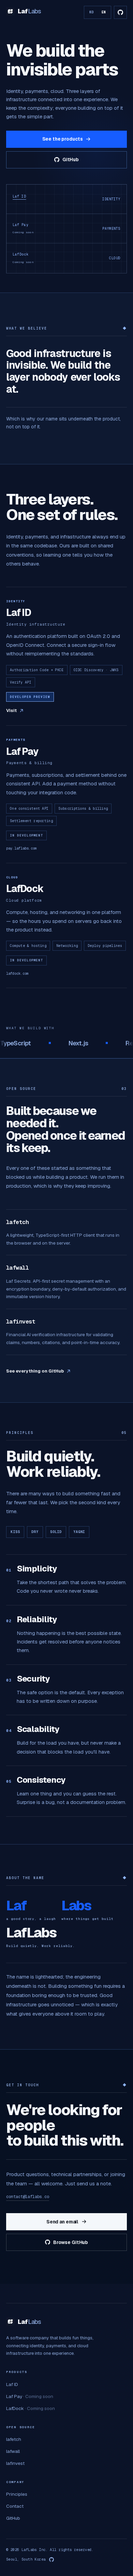
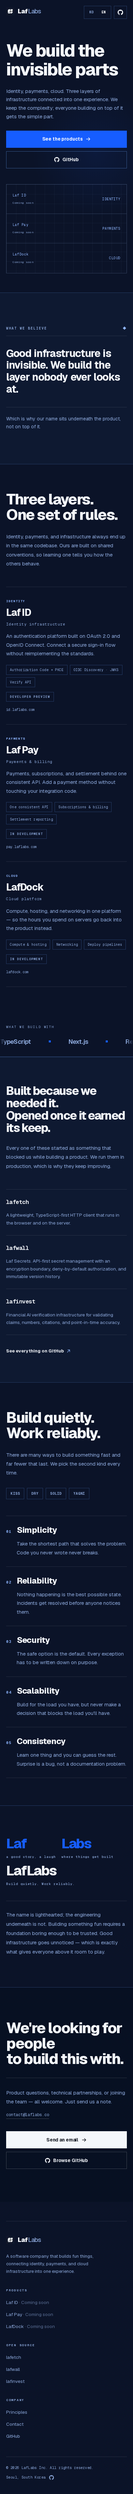
fix: complete homepage finish review

diff --git a/lib/content.ts b/lib/content.ts
@@ -24,7 +24,7 @@ export const stack = [
 ] as const
 
 export const products = [
-  { id: "laf-id", name: "Laf ID", href: "https://id.laflabs.com", domain: "id.laflabs.com" },
+  { id: "laf-id", name: "Laf ID", href: null, domain: "id.laflabs.com" },
   { id: "laf-pay", name: "Laf Pay", href: null, domain: "pay.laflabs.com" },
   { id: "lafdock", name: "LafDock", href: null, domain: "lafdock.com" },
 ] as const
@@ -68,20 +68,18 @@ type Copy = {
     soon: string
   } & Record<ProductId, ProductCopy>
   open: {
-    eyebrow: string
     title: readonly [string, string]
     lede: string
     all: string
     descriptions: Record<RepoName, string>
   }
   principles: {
-    eyebrow: string
     title: readonly [string, string]
     lede: string
     items: readonly { key: string; body: string }[]
   }
-  name: { eyebrow: string; laf: string; labs: string; note: string }
-  cta: { eyebrow: string; title: readonly [string, string]; lede: string; mail: string; github: string }
+  name: { laf: string; labs: string; note: string }
+  cta: { title: readonly [string, string]; lede: string; mail: string; github: string }
   footer: {
     blurb: string
     products: string
@@ -136,7 +134,6 @@ const ko: Copy = {
     },
   },
   open: {
-    eyebrow: "오픈소스",
     title: ["필요해서 만들었고,", "쓸 만해져서 열었습니다."],
     lede: "전부 제품을 만들다 막혀서 직접 만든 것들입니다. 우리가 실제로 운영에 쓰고 있고, 그래서 계속 고쳐집니다.",
     all: "GitHub에서 전체 보기",
@@ -147,7 +144,6 @@ const ko: Copy = {
     },
   },
   principles: {
-    eyebrow: "원칙",
     title: ["조용히 만들고,", "확실하게 돌아가게."],
     lede: "빠르게 만드는 방법은 많지만 오래 가는 방법은 적습니다. 우리는 매번 후자를 고릅니다.",
     items: [
@@ -159,13 +155,11 @@ const ko: Copy = {
     ],
   },
   name: {
-    eyebrow: "이름에 대하여",
     laf: "재미있는 이야기, 웃음",
     labs: "만들고 실험하는 곳",
     note: "이름은 가볍게 지었지만 만드는 방식은 그렇지 않습니다. 재미있는 걸 만들려면 그 아래가 지루할 만큼 튼튼해야 한다고 믿습니다. 잘 만든 인프라는 눈에 띄지 않고, 그래서 사람들은 그 위에서 마음껏 놀 수 있습니다.",
   },
   cta: {
-    eyebrow: "함께하기",
     title: ["같이 만들 사람을", "찾고 있습니다."],
     lede: "제품 도입, 기술 협업, 합류 문의 모두 환영합니다. 편하게 메일 주세요.",
     mail: "메일 보내기",
@@ -225,7 +219,6 @@ const en: Copy = {
     },
   },
   open: {
-    eyebrow: "Open source",
     title: ["Built because we needed it.", "Opened once it earned its keep."],
     lede: "Every one of these started as something that blocked us while building a product. We run them in production, which is why they keep improving.",
     all: "See everything on GitHub",
@@ -236,7 +229,6 @@ const en: Copy = {
     },
   },
   principles: {
-    eyebrow: "Principles",
     title: ["Build quietly.", "Work reliably."],
     lede: "There are many ways to build something fast and far fewer that last. We pick the second kind every time.",
     items: [
@@ -248,13 +240,11 @@ const en: Copy = {
     ],
   },
   name: {
-    eyebrow: "About the name",
     laf: "a good story, a laugh",
     labs: "where things get built",
     note: "The name is lighthearted; the engineering underneath is not. Building something fun requires a foundation boring enough to be trusted. Good infrastructure goes unnoticed — which is exactly what gives everyone above it room to play.",
   },
   cta: {
-    eyebrow: "Get in touch",
     title: ["We're looking for people", "to build this with."],
     lede: "Product questions, technical partnerships, or joining the team — all welcome. Just send us a note.",
     mail: "Send an email",

diff --git a/app/globals.css b/app/globals.css
@@ -454,8 +454,7 @@ a.routing-item:focus-visible .routing-product-name { color: var(--foreground); }
   gap: clamp(28px, 4vw, 72px);
 }
 .section-head > .lede { padding-bottom: 6px; }
-.section-head-title { margin-top: clamp(24px, 2.6vw, 38px); }
-#products .section-head-title { margin-top: 0; }
+.section-head-title { margin-top: 0; }
 
 /* ------------------------------------------------------------------ *
  * Products — direct editorial rows, not a card grid.
@@ -642,7 +641,7 @@ a.routing-item:focus-visible .routing-product-name { color: var(--foreground); }
 .name-inner { width: var(--shell); margin-inline: auto; position: relative; }
 
 .name-equation {
-  margin-top: clamp(38px, 4.6vw, 68px);
+  margin: 0;
   display: flex;
   flex-wrap: wrap;
   align-items: flex-start;
@@ -692,8 +691,7 @@ a.routing-item:focus-visible .routing-product-name { color: var(--foreground); }
   background: var(--surface-inverse);
 }
 .cta-inner { width: var(--shell); margin-inline: auto; position: relative; }
-.cta .label { border-bottom-color: color-mix(in srgb, var(--text-inverse) 16%, transparent); color: var(--text-inverse-muted); }
-.cta h2 { margin: clamp(28px, 3.4vw, 46px) 0 0; color: var(--text-inverse); }
+.cta h2 { margin: 0; color: var(--text-inverse); }
 .cta-body {
   margin-top: clamp(32px, 3.6vw, 48px);
   padding-top: 30px;

diff --git a/components/sections/name-story.tsx b/components/sections/name-story.tsx
@@ -3,7 +3,7 @@
 import { motion, useReducedMotion } from "motion/react"
 
 import { useLocale } from "@/components/i18n/locale-provider"
-import { EASE, Reveal } from "@/components/ui/reveal"
+import { EASE } from "@/components/ui/reveal"
 import { copy, motto } from "@/lib/content"
 
 /** The one block on the page allowed to have a sense of humour about itself. */
@@ -26,14 +26,7 @@ export function NameStory() {
   return (
     <section className="name-section">
       <div className="name-inner">
-        <Reveal>
-          <div className="label">
-            <span>{t.eyebrow}</span>
-            <b>◆</b>
-          </div>
-        </Reveal>
-
-        <motion.div
+        <motion.h2
           className="name-equation"
           initial={reduced ? "visible" : "hidden"}
           whileInView="visible"
@@ -64,7 +57,7 @@ export function NameStory() {
             <span>LafLabs</span>
             <small>{motto}</small>
           </motion.span>
-        </motion.div>
+        </motion.h2>
 
         <motion.p
           className="name-note"

diff --git a/components/sections/cta.tsx b/components/sections/cta.tsx
@@ -15,13 +15,6 @@ export function Cta() {
     <section className="cta" id="contact">
       <div className="cta-inner">
         <Reveal>
-          <div className="label">
-            <span>{t.eyebrow}</span>
-            <b>◆</b>
-          </div>
-        </Reveal>
-
-        <Reveal delay={0.08}>
           <h2 className="display">
             {t.title[0]}
             <br />
@@ -29,7 +22,7 @@ export function Cta() {
           </h2>
         </Reveal>
 
-        <Reveal delay={0.16}>
+        <Reveal delay={0.08}>
           <div className="cta-body">
             <div>
               <p className="lede">{t.lede}</p>

diff --git a/components/sections/open-source.tsx b/components/sections/open-source.tsx
@@ -14,14 +14,7 @@ export function OpenSource() {
   return (
     <section className="section section-alt" id="open-source">
       <div className="shell">
-        <Reveal>
-          <div className="label">
-            <span>{t.eyebrow}</span>
-            <span>0{repositories.length}</span>
-          </div>
-        </Reveal>
-
-        <Reveal delay={0.06} className="section-head">
+        <Reveal className="section-head">
           <h2 className="display-sm section-head-title">
             {t.title[0]}
             <br />

diff --git a/components/sections/principles.tsx b/components/sections/principles.tsx
@@ -15,14 +15,7 @@ export function Principles() {
   return (
     <section className="section" id="principles">
       <div className="shell">
-        <Reveal>
-          <div className="label">
-            <span>{t.eyebrow}</span>
-            <span>0{t.items.length}</span>
-          </div>
-        </Reveal>
-
-        <Reveal delay={0.06} className="section-head">
+        <Reveal className="section-head">
           <h2 className="display section-head-title">
             {t.title[0]}
             <br />

diff --git a/components/sections/statement.tsx b/components/sections/statement.tsx
@@ -23,7 +23,7 @@ function Word({
   // finishes well before the section leaves the viewport. The floor stays
   // legible so the copy never reads as broken or missing.
   const start = (index / total) * 0.7
-  const opacity = useTransform(progress, [start, start + 0.3], [0.26, 1])
+  const opacity = useTransform(progress, [start, start + 0.3], [0.36, 1])
 
   return (
     <motion.span style={{ opacity }}>
